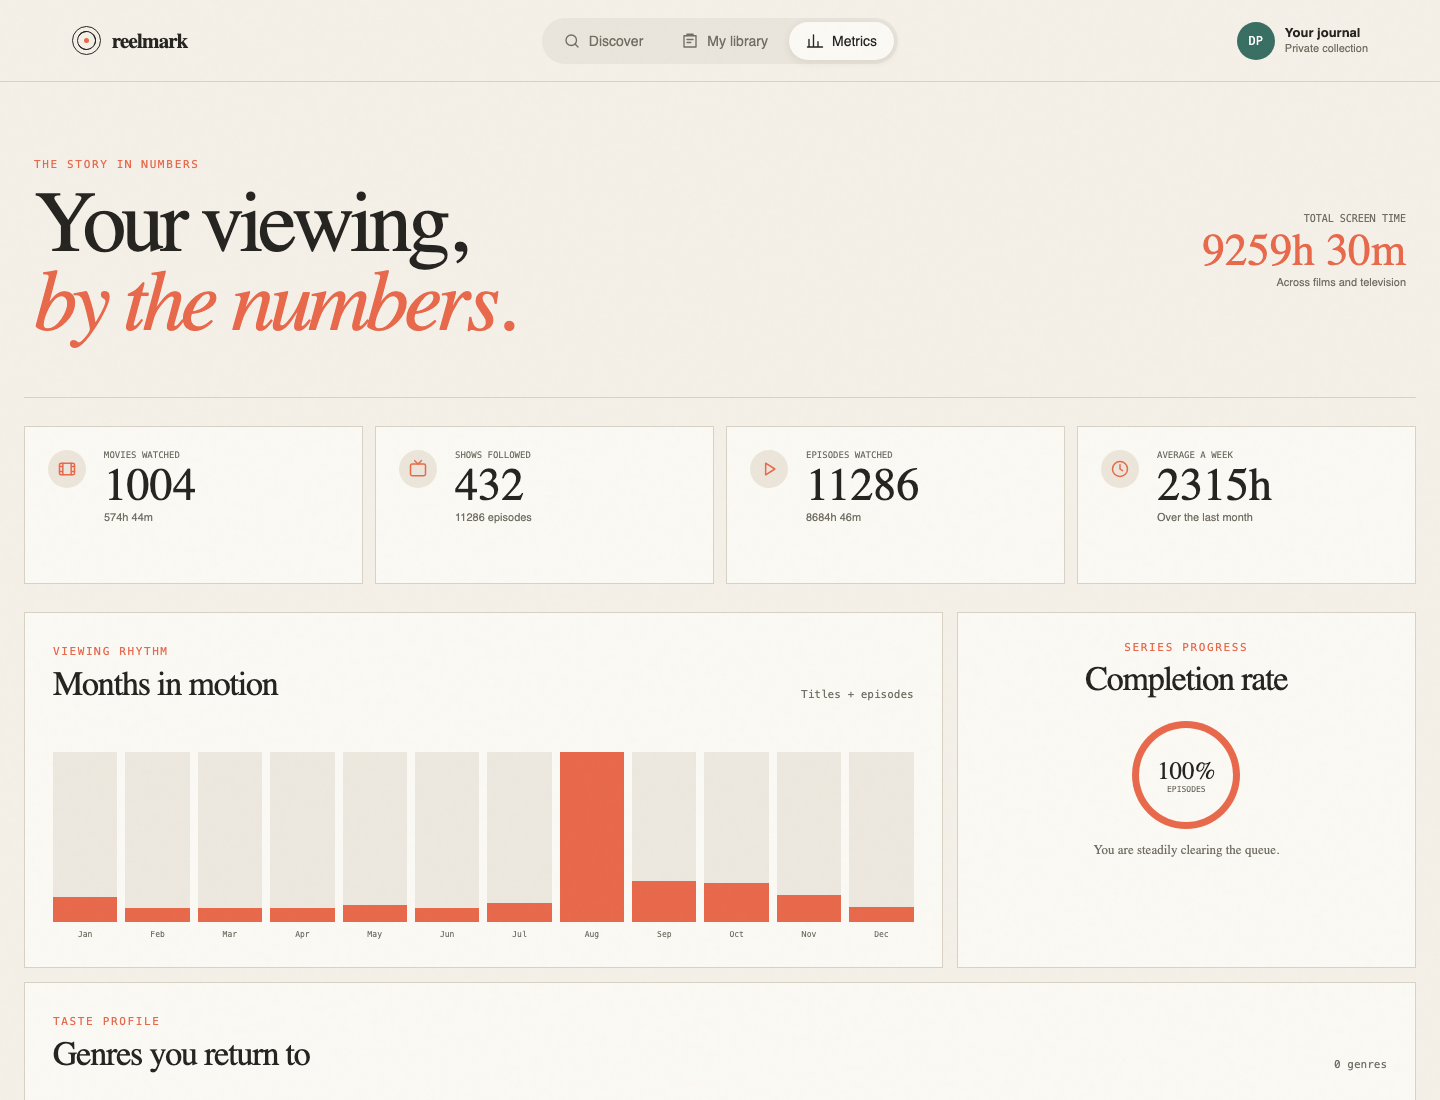
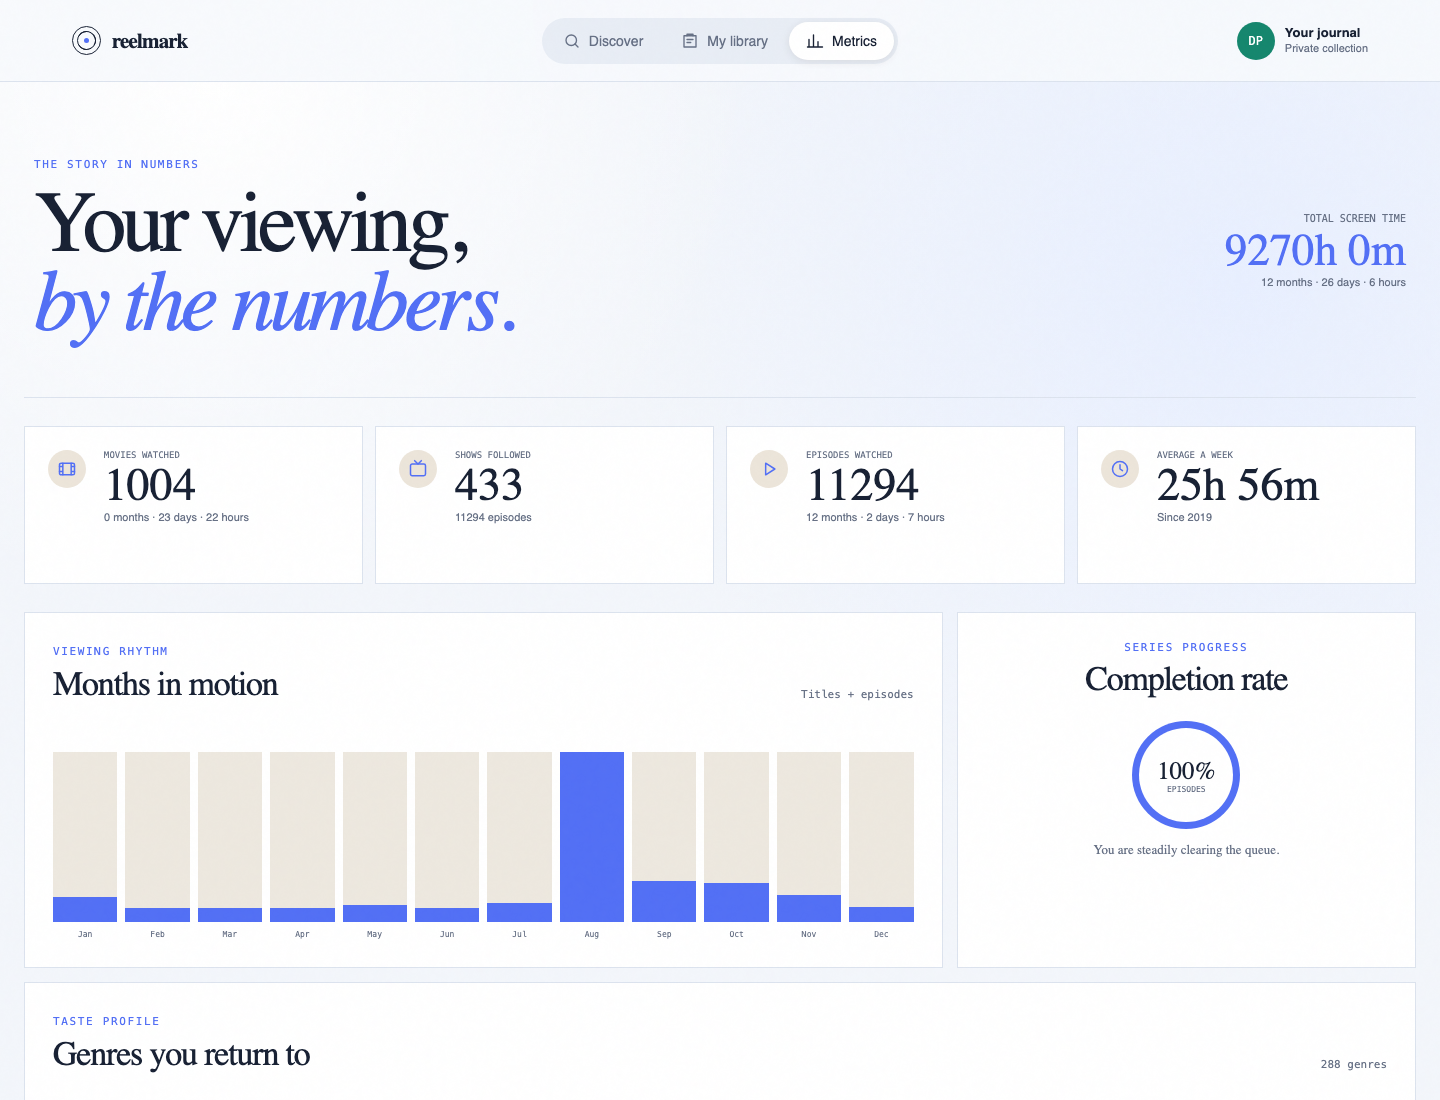
added tv-time-like-app

diff --git a/pocs/tv-time-like/src/components/Poster.tsx b/pocs/tv-time-like/src/components/Poster.tsx
@@ -2,7 +2,7 @@ import type { Media } from "../../shared/types"
 import { Icon } from "./Icon"
 
 export function Poster({ media, className = "" }: { media: Media; className?: string }) {
-  if (media.poster) return <div className={`poster ${className}`}><img src={media.poster} alt={`${media.title} poster`}/></div>
+  if (media.poster) return <div className={`poster poster-image ${className}`} style={{ "--poster-color": media.color } as React.CSSProperties}><img src={media.poster} alt={`${media.title} poster`} loading="eager"/></div>
   const words = media.title.split(/[ :]/).filter(Boolean)
   const monogram = words.slice(0, 2).map(word => word[0]).join("")
   return <div className={`poster poster-fallback ${className}`} style={{ "--poster-color": media.color } as React.CSSProperties}>

diff --git a/pocs/tv-time-like/src/styles.css b/pocs/tv-time-like/src/styles.css
@@ -65,7 +65,7 @@ kbd { border: 1px solid var(--line); border-radius: 5px; padding: 5px 7px; color
 .media-grid { display: grid; grid-template-columns: repeat(2, 1fr); gap: 18px; }
 .media-card { min-height: 310px; display: grid; grid-template-columns: 190px 1fr; background: var(--paper-light); border: 1px solid var(--line); transition: transform .25s ease, box-shadow .25s ease; overflow: hidden; }
 .media-card:hover { transform: translateY(-3px); box-shadow: 0 18px 40px #44372918; }
-.poster { position: relative; overflow: hidden; background: #ddd; min-height: 250px; }.poster img { width: 100%; height: 100%; object-fit: cover; display: block; transition: transform .5s ease; }.media-card:hover .poster img { transform: scale(1.035); }
+.poster { position: relative; overflow: hidden; background: #dfe5ef; min-height: 250px; }.poster-image { background: linear-gradient(155deg, color-mix(in srgb, var(--poster-color) 70%, white), var(--poster-color)); }.poster img { position: relative; width: 100%; height: 100%; object-fit: cover; display: block; transition: transform .5s ease; }.media-card:hover .poster img { transform: scale(1.035); }
 .poster-fallback { padding: 18px; display: flex; flex-direction: column; justify-content: space-between; color: #fff; background: linear-gradient(155deg, color-mix(in srgb, var(--poster-color) 72%, white), var(--poster-color)); isolation: isolate; }
 .poster-fallback:before { content: ""; position: absolute; width: 170px; height: 170px; border-radius: 50%; border: 1px solid #ffffff65; right: -60px; top: 55px; box-shadow: inset 0 0 0 28px transparent, inset 0 0 0 29px #ffffff4c, inset 0 0 0 55px transparent, inset 0 0 0 56px #ffffff36; z-index: -1; }
 .poster-fallback>strong { font: 500 66px var(--serif); letter-spacing: -.08em; opacity: .88; }.poster-fallback div { display: flex; flex-direction: column; }.poster-fallback div b { font: 500 20px/1.05 var(--serif); }.poster-fallback div small { font: 10px var(--mono); margin-top: 5px; opacity: .8; }